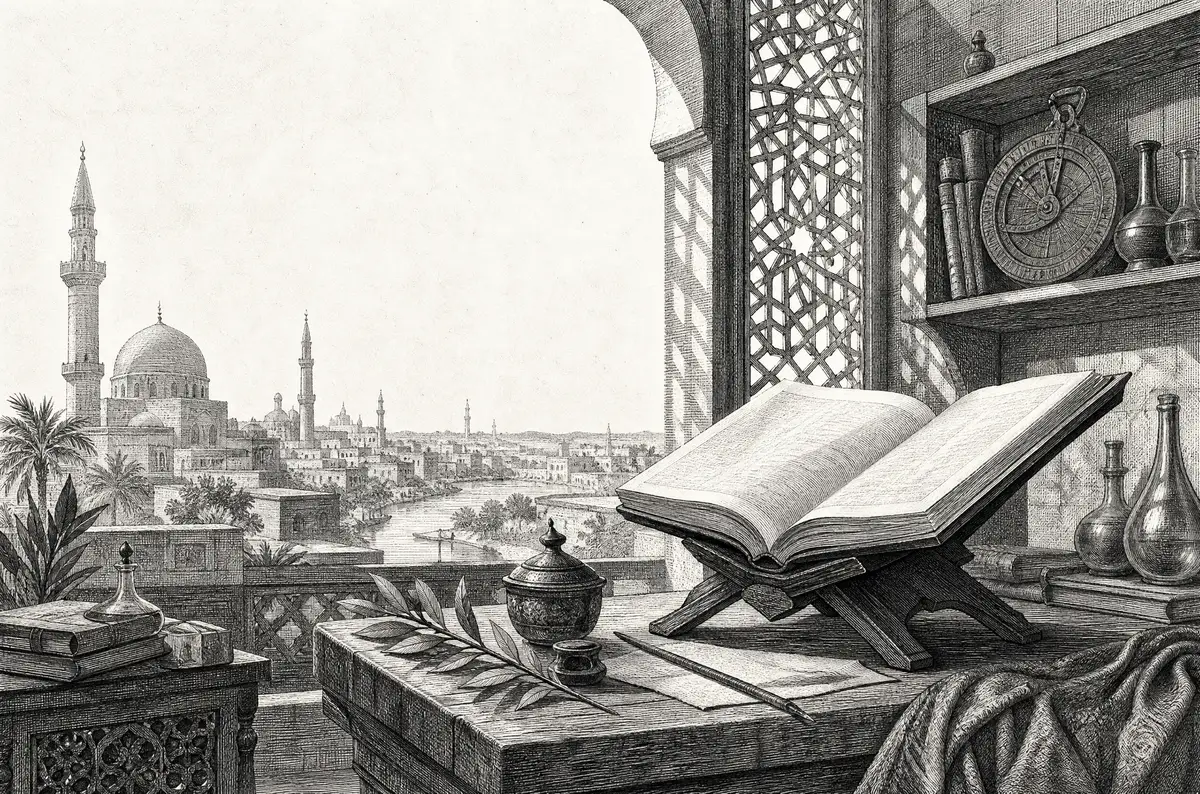
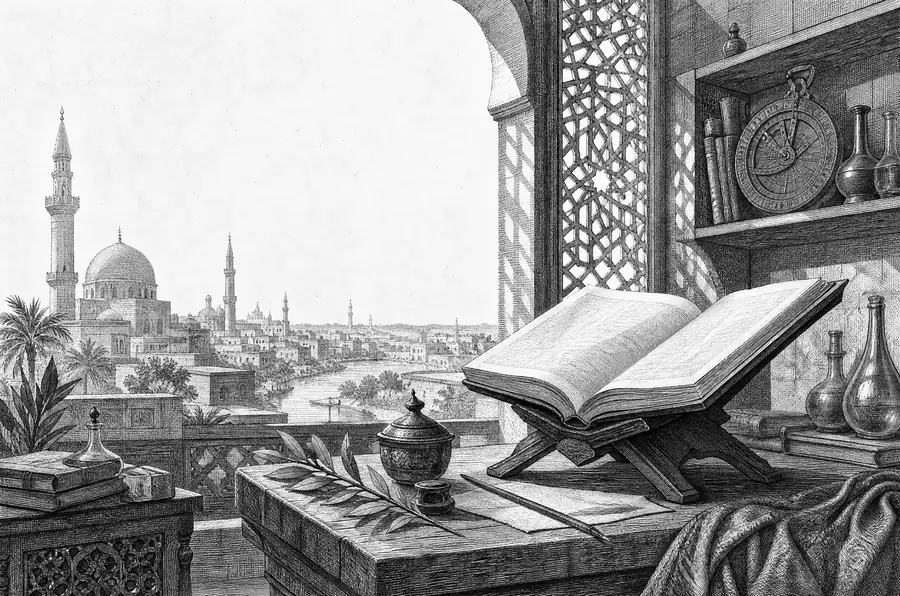
Plates: greyscale 900px, preload hero plate

diff --git a/site/index.html b/site/index.html
@@ -17,6 +17,7 @@
 <link rel="preload" as="font" type="font/woff2" href="assets/fonts/InstrumentSans-var.woff2" crossorigin>
 <link rel="stylesheet" href="assets/fonts/fonts.css">
 <link rel="preload" as="image" href="assets/emblems/mark.webp" fetchpriority="high">
+<link rel="preload" as="image" href="assets/plates/hero.webp">
 <link rel="stylesheet" href="styles.css">
 <!-- source: github.com/mbs5/portfolio -->
 </head>
@@ -40,7 +41,7 @@
 
 <main id="top">
 <section class="hero plate-sec" data-plate="hero">
-  <img class="plate" src="assets/plates/hero.webp" width="1200" height="800" alt="" aria-hidden="true" decoding="async">
+  <img class="plate" src="assets/plates/hero.webp" width="900" height="596" alt="" aria-hidden="true" decoding="async">
   <div class="wrap">
     <div class="hero-grid">
       <div>
@@ -64,7 +65,7 @@
 <div class="frieze" aria-hidden="true"><svg><rect width="100%" height="13" fill="url(#meander)"/></svg></div>
 
 <section class="sec plate-sec" id="peptiful" data-plate="peptiful">
-  <img class="plate" src="assets/plates/peptiful.webp" width="1200" height="800" alt="" aria-hidden="true" loading="lazy" decoding="async">
+  <img class="plate" src="assets/plates/peptiful.webp" width="900" height="596" alt="" aria-hidden="true" loading="lazy" decoding="async">
   <div class="wrap">
     <div class="sec-head reveal"><span class="k">01</span><h2>Peptiful</h2></div>
     <div class="feature reveal">
@@ -104,7 +105,7 @@
 </section>
 
 <section class="sec plate-sec" id="storekit" data-plate="storekit">
-  <img class="plate" src="assets/plates/storekit.webp" width="1200" height="800" alt="" aria-hidden="true" loading="lazy" decoding="async">
+  <img class="plate" src="assets/plates/storekit.webp" width="900" height="596" alt="" aria-hidden="true" loading="lazy" decoding="async">
   <div class="wrap">
     <div class="sec-head reveal"><span class="k">02</span><h2>StoreKit</h2></div>
     <div class="feature reveal">
@@ -142,7 +143,7 @@
 </section>
 
 <section class="sec plate-sec" id="operations" data-plate="operations">
-  <img class="plate" src="assets/plates/operations.webp" width="1200" height="800" alt="" aria-hidden="true" loading="lazy" decoding="async">
+  <img class="plate" src="assets/plates/operations.webp" width="900" height="596" alt="" aria-hidden="true" loading="lazy" decoding="async">
   <div class="wrap">
     <div class="sec-head reveal"><span class="k">03</span><h2>Operations that run themselves</h2></div>
     <div class="feature reveal">
@@ -193,7 +194,7 @@
 </section>
 
 <section class="sec plate-sec" id="healthpedia" data-plate="healthpedia">
-  <img class="plate" src="assets/plates/healthpedia.webp" width="1200" height="800" alt="" aria-hidden="true" loading="lazy" decoding="async">
+  <img class="plate" src="assets/plates/healthpedia.webp" width="900" height="596" alt="" aria-hidden="true" loading="lazy" decoding="async">
   <div class="wrap">
     <div class="sec-head reveal"><span class="k">04</span><h2>Healthpedia</h2></div>
     <div class="feature reveal">
@@ -229,7 +230,7 @@
 </section>
 
 <section class="sec plate-sec" id="more" data-plate="morework">
-  <img class="plate" src="assets/plates/morework.webp" width="1200" height="800" alt="" aria-hidden="true" loading="lazy" decoding="async">
+  <img class="plate" src="assets/plates/morework.webp" width="900" height="596" alt="" aria-hidden="true" loading="lazy" decoding="async">
   <div class="wrap">
     <div class="sec-head reveal"><span class="k">05</span><h2>More work</h2></div>
     <ul class="list reveal">
@@ -267,7 +268,7 @@
 </main>
 
 <footer class="contact plate-sec" id="contact" data-plate="contact">
-  <img class="plate" src="assets/plates/contact.webp" width="1200" height="800" alt="" aria-hidden="true" loading="lazy" decoding="async">
+  <img class="plate" src="assets/plates/contact.webp" width="900" height="596" alt="" aria-hidden="true" loading="lazy" decoding="async">
   <div class="wrap">
     <div class="sec-head reveal"><span class="k">07</span><h2>Contact</h2></div>
     <h2 class="ch reveal">If you're building commerce infrastructure, or a business that should run itself, write to me.</h2>

diff --git a/PROGRESS.md b/PROGRESS.md
@@ -9,7 +9,7 @@ Loop: learn, build, audit, ship. Every pass is reviewed by a different model fro
 | 2 | 05-10 05:20 | Six-word hero, Cinzel confined to headings, Garamond small caps everywhere else, emblem bug fixed, opaque mast on touch, honest token panel, EggFlow four-phone strip, blueprint strip with 12px labels, accordion thumbs engraved-to-colour, How I work rewritten as four practices, self-hosted fonts, OG image of eight stores, X link | Fable: 7 / 8 / 6. Opus: 7 / 8 / 7 | 91 / 97 / 100 / 100, LCP 3.1s |
 
 | 3 | 05-10 06:10 | Real small caps from the source variable font, honest hero ("I build the system once, then let eight brands wear it"), StoreKit claims aligned to facts, ownership lines, $12M into prose, Peptiful mechanism diagram, accordion a11y fixes and Longevity OS first, phones cropped, diagrams scroll on phones, links in roman, old-style numerals, grain into background, engraving measures glyph advance | Fable: 7 / 8 / 7. Opus: 8 / 8 / 8 | 91 / 97 / 100 / 100, LCP 2.9s, CLS 0 |
-| 4 | 05-10 07:30 | MBS feedback pass. Peptiful first. Fraunces + Instrument Sans + JetBrains Mono. Seven engraved plates behind sections (astrolabe, Cordoba market, Greek stoa, Punjab farm, Baghdad study, House of Wisdom, Pharos). All screenshots out: swatch cards for StoreKit, a day ledger for EggFlow. Archive, Peptides card, Bismillah, star removed. Footer is three actions. Copy matches the StoreKit repo truth. | pending | pending |
+| 4 | 05-10 07:30 | MBS feedback pass. Peptiful first. Fraunces + Instrument Sans + JetBrains Mono. Seven engraved plates behind sections (astrolabe, Cordoba market, Greek stoa, Punjab farm, Baghdad study, House of Wisdom, Pharos). All screenshots out: swatch cards for StoreKit, a day ledger for EggFlow. Archive, Peptides card, Bismillah, star removed. Footer is three actions. Copy matches the StoreKit repo truth. | pending | 92 / 100 / 100 / 100, LCP 3.2s, CLS 0 |
 
 ## What the critics changed my mind about
 - Pass 1 to 2: I had treated "classical" as a license for ornament. The critic counted seven ornaments (numerals, friezes, star, wreath, Bismillah, Cinzel labels, scramble) and asked for two. The page got calmer and more credible with Garamond small caps doing the work Cinzel used to do.
